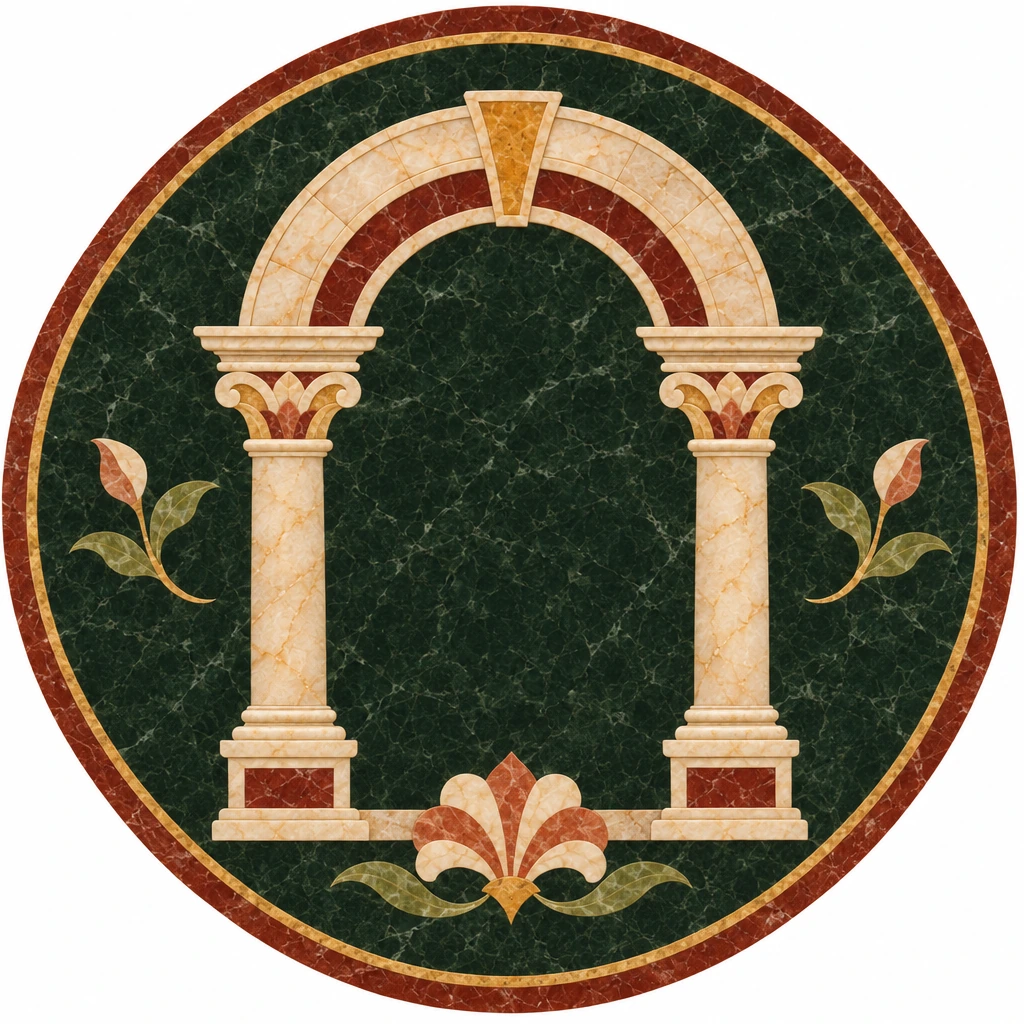
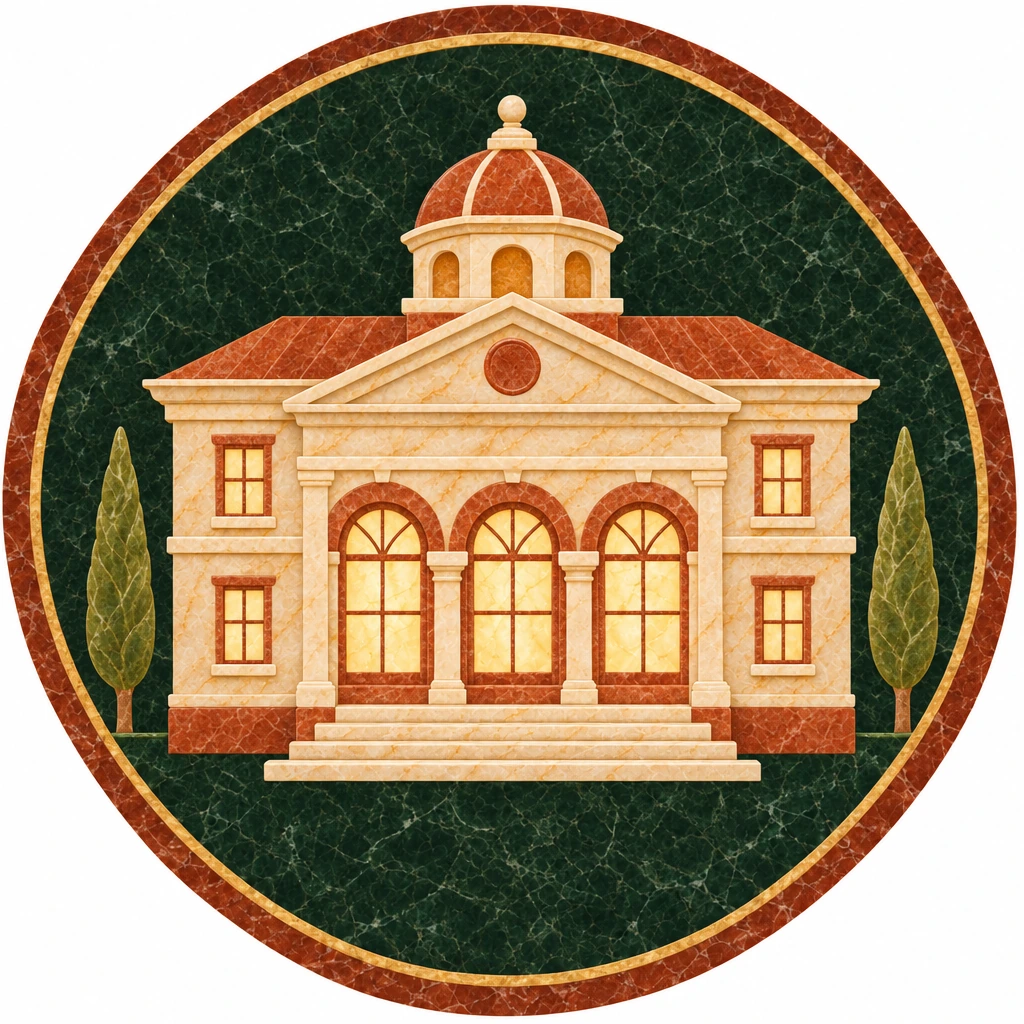
Instagram: pietra dura highlights reworked — whole frame in the circle, unique ornaments, new universities and DSU covers (#228)
Owner: «на profile page уже идёт обрезка… узоры повторяются… арка чуть страшная… мешок на DSU страшноватый… флорентийская мозаика мне нравится больше». The medallion is scaled to 84% on a field of its own green, so the frame is not cropped. Each cover has its own ornament. Universities shows a light facade with a dome, and DSU a laurel wreath. Pietra dura is marked as chosen.

Claude-Session: https://claude.ai/code/session_01EJf3uoJW8TN46ucPCkbbdr

diff --git a/design/social/instagram/source/highlights.py b/design/social/instagram/source/highlights.py
@@ -1,17 +1,27 @@
-# Highlight covers 1080x1920 from square medallions: the medallion sits in the
-# middle, where Instagram cuts the circle, on a plain field sampled from the
-# square's own corners. Usage: python3 highlights.py <src-dir> <out-dir>
-# (src files: NN-key.png or .webp, e.g. 01-o-nas.png).
+# Highlight covers 1080x1920 from square medallions. Instagram cuts a circle
+# out of the middle and the profile shows it smaller still, so the medallion
+# (owner, 15 Nov: «на profile page уже идёт обрезка») is cut out along its own
+# rim, scaled to 84% and set on a field of its own ground colour: the whole
+# frame stays visible. Usage: python3 highlights.py <src-dir> <out-dir> [scale]
 import os, sys
-from PIL import Image, ImageStat
+import numpy as np
+from PIL import Image, ImageDraw
 src, out = sys.argv[1], sys.argv[2]
+scale = float(sys.argv[3]) if len(sys.argv) > 3 else 0.84
 os.makedirs(out, exist_ok=True)
 for f in sorted(os.listdir(src)):
     if not f.lower().endswith(('.png', '.webp', '.jpg')):
         continue
     sq = Image.open(os.path.join(src, f)).convert('RGB').resize((1080, 1080), Image.LANCZOS)
-    corners = [sq.crop(b) for b in ((0, 0, 60, 60), (1020, 0, 1080, 60), (0, 1020, 60, 1080), (1020, 1020, 1080, 1080))]
-    rgb = tuple(int(sum(ImageStat.Stat(c).mean[i] for c in corners) / 4) for i in range(3))
-    canvas = Image.new('RGB', (1080, 1920), rgb)
-    canvas.paste(sq, (0, 420))
+    a = np.asarray(sq).astype(np.float32)
+    yy, xx = np.mgrid[0:1080, 0:1080]
+    r = np.hypot(xx - 540, yy - 540) / 1080
+    ground = tuple(int(v) for v in np.median(a[(r > 0.36) & (r < 0.42)], axis=0) * 0.82)
+    mask = Image.new('L', (1080, 1080), 0)
+    ImageDraw.Draw(mask).ellipse((14, 14, 1066, 1066), fill=255)
+    size = int(1080 * scale)
+    med = sq.resize((size, size), Image.LANCZOS)
+    m = mask.resize((size, size), Image.LANCZOS)
+    canvas = Image.new('RGB', (1080, 1920), ground)
+    canvas.paste(med, ((1080 - size) // 2, 420 + (1080 - size) // 2), m)
     canvas.save(os.path.join(out, os.path.splitext(f)[0] + '.jpg'), quality=92)

diff --git a/design/social/instagram/README.md b/design/social/instagram/README.md
@@ -90,8 +90,8 @@ Instagram аккаунта». Здесь готовый к загрузке на
 | `01-o-nas` | О нас | красный шлем Веспи с кремовой полосой |
 | `02-cena` | Цена | золотая монета |
 | `03-dokumenty` | Проверка | конверт с сургучной печатью |
-| `04-dsu` | DSU | мешочек с монетами |
-| `05-vuzy` | Вузы | арка на двух колоннах |
+| `04-dsu` | DSU | лавровый венок — знак учебной награды |
+| `05-vuzy` | Вузы | светлый фасад старого университета с куполом |
 | `06-viza` | Виза | ласточка в полёте (дорога, перелёт) |
 | `07-gaidy` | Гайды | раскрытая книга |
 | `08-voprosy` | Вопросы | старый ключ (ответ, который открывает) |
@@ -99,13 +99,29 @@ Instagram аккаунта». Здесь готовый к загрузке на
 - **Фреска** (`highlights/fresco/`, макет `profile-preview-fresco.jpg`) —
   тёплая штукатурка, светлая, мягкая. Спокойно смотрится на белом
   Instagram.
-- **Флорентийская мозаика** (`highlights/pietra-dura/`, макет
-  `profile-preview-pietra-dura.jpg`) — тёмно-зелёный мрамор и камень. Она
-  повторяет тёмно-зелёный щит аватарки, и профиль выглядит как один
-  предмет. Я бы взял её.
+- **Флорентийская мозаика — выбрана** (`highlights/pietra-dura/`, макет
+  `profile-preview-pietra-dura.jpg`): тёмно-зелёный мрамор и камень,
+  повторяет тёмно-зелёный щит аватарки.
+
+  Правка владельца: «на profile page уже идёт обрезка… узоры повторяются…
+  арка чуть страшная… мешок на DSU страшноватый». Поэтому:
+  - **медальон целиком в круге:** он уменьшен до 84 % и стоит на поле
+    своего же зелёного, рамка больше не срезается;
+  - **у каждого кружка свой орнамент:**
+    - бусины вокруг шлема;
+    - лучи вокруг монеты;
+    - звёзды у конверта;
+    - лавровый венок;
+    - кипарисы у фасада;
+    - облака под ласточкой;
+    - лимоны над книгой;
+    - гранаты у ключа;
+  - **«Вузы» — светлый фасад** с куполом вместо пустой тёмной арки;
+  - **«DSU» — лавровый венок** вместо мешка.
 
 Файлы 1080×1920: медальон стоит в середине, где Instagram вырезает круг.
-При добавлении обложки достаточно не сдвигать кадр.
+При добавлении обложки достаточно не сдвигать кадр. Набор фрески собран
+прежним способом, медальон во весь круг.
 
 Порядок слева направо: на телефоне без прокрутки видно 4–5 кружков,
 поэтому сначала то, что решает «покупать или нет».
@@ -345,9 +361,10 @@ Alt-текст обложки: «Тосканские холмы на рассв
 
 Обложки «Актуального» — `source/highlight-scenes/{fresco,pietra-dura}/`
 (Higgsfield, `gpt_image_2_6`, high, 1k, 1:1). Каждый набор генерировался
-по двум пробам своего стиля из второго круга. «Цена» в обоих наборах и
-шлем в мозаике перерисованы по соседним обложкам, чтобы совпали рамка и
-орнамент.
+по двум пробам своего стиля из второго круга. «Цена» и шлем перерисованы по соседним обложкам, чтобы совпали рамка и
+орнамент. Мозаика потом переделана целиком: у каждой обложки свой
+орнамент, у «Вузов» фасад, у «DSU» венок. Номера заданий:
+`source/highlight-scenes/pietra-dura/jobs.txt`.
 
 Собирает их `python3 source/highlights.py <папка с квадратами> <папка
 вывода>`. Макет профиля с ними — `node source/profile.mjs <out.png> light
